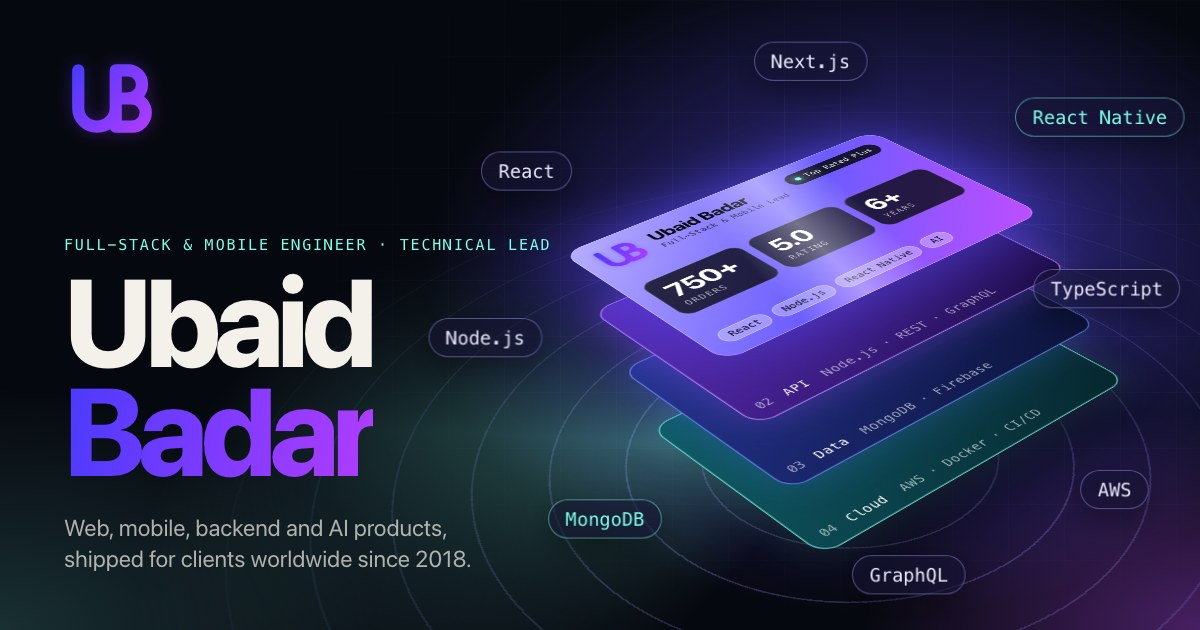
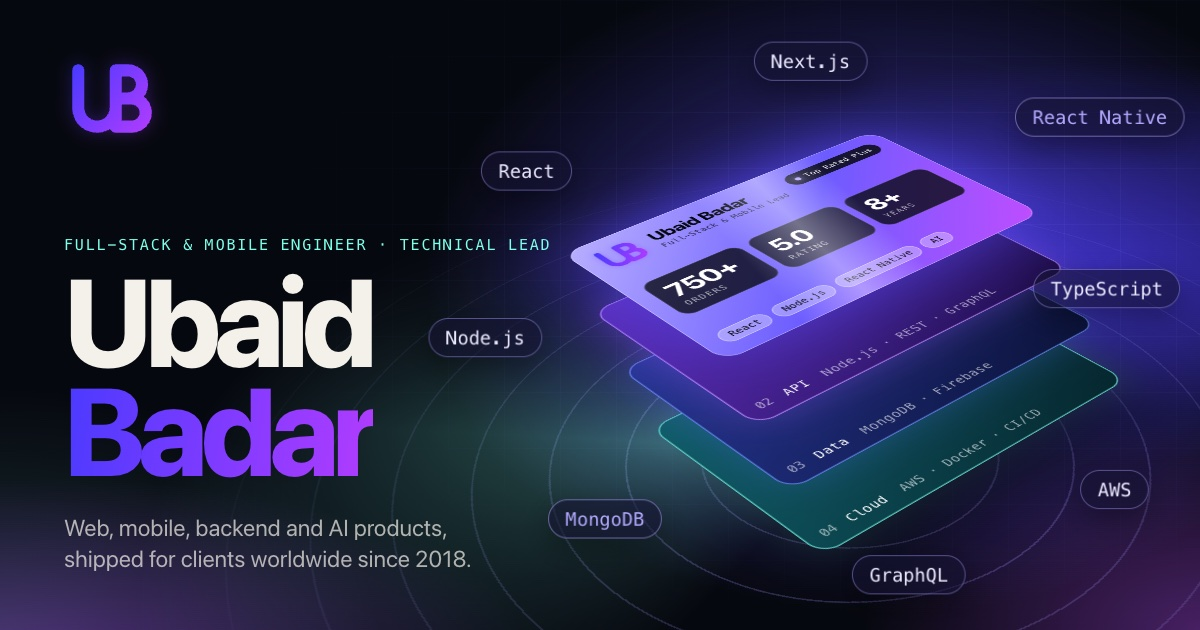
feat: update Firebase headers for security and caching, modify years of experience in multiple files

diff --git a/public/index.html b/public/index.html
@@ -219,7 +219,7 @@
                   <div class="id-stats">
                     <p><b>750+</b><i>Orders</i></p>
                     <p><b>5.0</b><i>Rating</i></p>
-                    <p><b>6+</b><i>Years</i></p>
+                    <p><b>8+</b><i>Years</i></p>
                   </div>
                   <p class="id-foot"><span>React</span><span>Node.js</span><span>React Native</span><span>AI</span></p>
                 </div>
@@ -275,7 +275,7 @@
             <h2>One engineer, the whole stack.</h2>
             <p>Senior freelance developer since 2018. Top Rated Plus on Upwork and a Level 2 Seller on Fiverr, with a 5.0-star average across 700+ combined reviews.</p>
             <ul class="facts">
-              <li><b>6+</b> years</li>
+              <li><b>8+</b> years</li>
               <li><b>750+</b> orders</li>
               <li><b>5.0</b> rating</li>
             </ul>

diff --git a/public/scripts/og.html b/public/scripts/og.html
@@ -40,7 +40,7 @@
     <div class="slab" data-i="3" style="transform:translate3d(0,-66px,72px)">
       <div class="face f-solid f-top">
         <div class="id-head"><span class="id-mark"><img src="../assets/logo.svg" alt=""></span><p><b>Ubaid Badar</b><i>Full-Stack &amp; Mobile Lead</i></p><span class="id-badge">Top Rated Plus</span></div>
-        <div class="id-stats"><p><b>750+</b><i>Orders</i></p><p><b>5.0</b><i>Rating</i></p><p><b>6+</b><i>Years</i></p></div>
+        <div class="id-stats"><p><b>750+</b><i>Orders</i></p><p><b>5.0</b><i>Rating</i></p><p><b>8+</b><i>Years</i></p></div>
         <p class="id-foot"><span>React</span><span>Node.js</span><span>React Native</span><span>AI</span></p>
       </div>
     </div>
